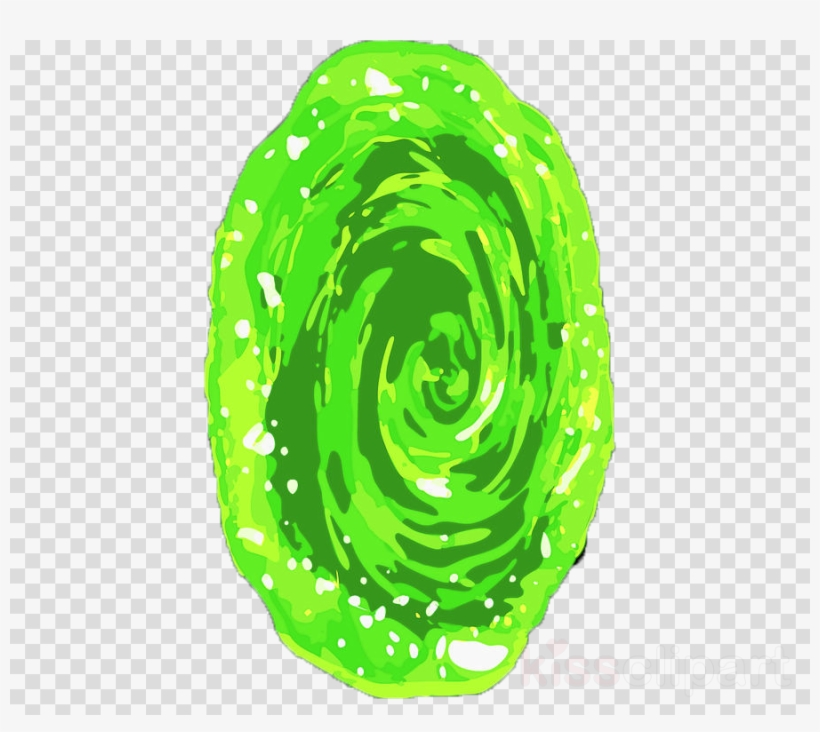
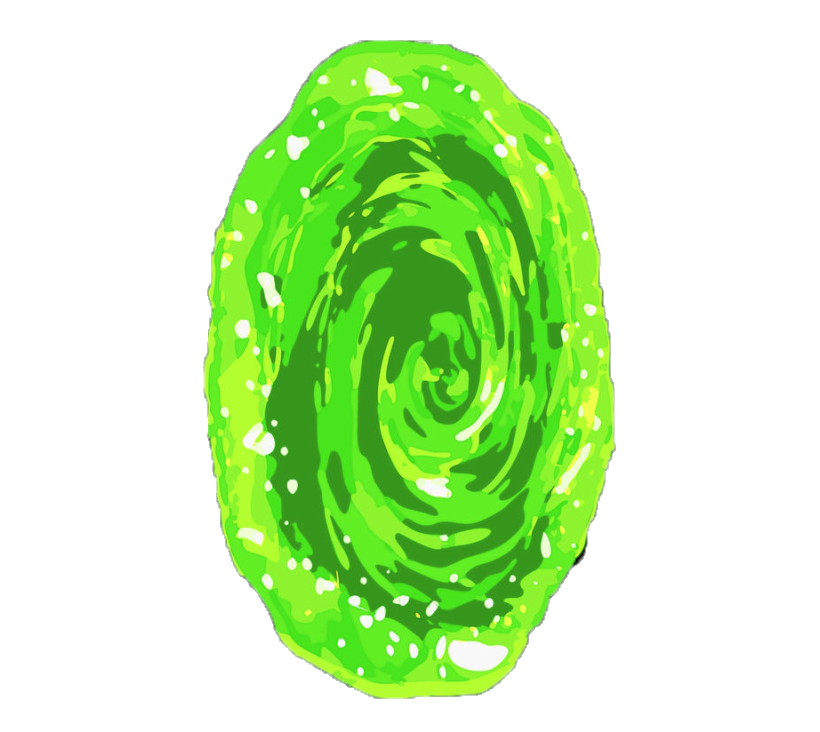
Get svg from merged images

Changed region(s): [[0.0, 0.0301, 1.0, 0.9918]]

diff --git a/index.js b/index.js
@@ -1,5 +1,7 @@
-import { readdirSync, statSync, mkdirSync, existsSync, writeFileSync } from "fs";
+import { readdirSync, statSync, mkdirSync, existsSync, writeFileSync, unlinkSync } from "fs";
 import { join, resolve, basename } from "path";
+const images = require("images");
+
 let sharp = require("sharp")
 let potrace = require("potrace")
 
@@ -40,20 +42,30 @@ function walkPathAndProcessImages({srcPath, destDirName, baseImgName}) {
 
 function processImage(baseImgPath, layerImgPath, outputDir) {
   const name = basename(layerImgPath);
+  const _mergedImagePath = join(outputDir, "_" + name)
   const mergedImagePath = join(outputDir, name)
   const svgPath = join(outputDir, name.replace(".png", ".svg"))
 
-  sharp(baseImgPath)
-    .flatten( { background: '#ff6600' } )
-    .composite([{ input: 'overlay.png', gravity: 'southeast' }])
-    // .grayscale()
-      //  .png()
-       .toFile(mergedImagePath);
+  console.log(baseImgPath, layerImgPath, outputDir)
 
-  potrace.trace(mergedImagePath, function(err, svg) {
-    if (err) throw err;
-    writeFileSync(svgPath, svg);
-  });
+  images(baseImgPath).draw(images(layerImgPath), 0, 0).save(_mergedImagePath)
+
+  sharp(_mergedImagePath)
+    .modulate({
+      brightness: 0,
+      saturation: 0
+    })
+    .toFile(mergedImagePath).then(() => {
+      potrace.trace(mergedImagePath, function(err, svg) {
+        if (err) throw err;
+    
+        writeFileSync(svgPath, svg);
+      });
+    }).then(() => {
+      unlinkSync(_mergedImagePath);
+      unlinkSync(mergedImagePath);
+    });
 }
 
 walkPathAndProcessImages(conf);
+
